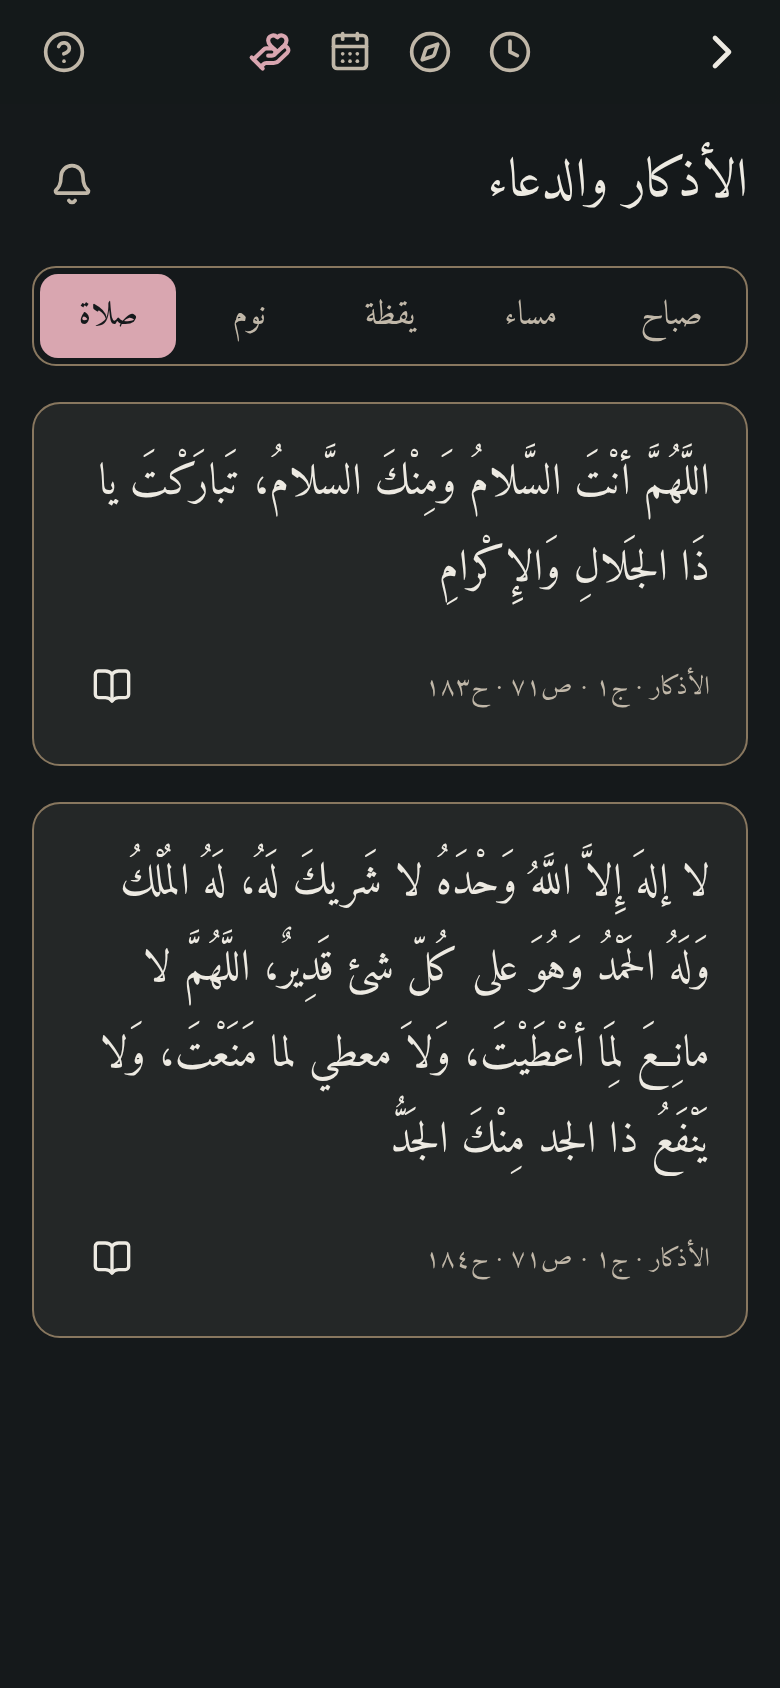
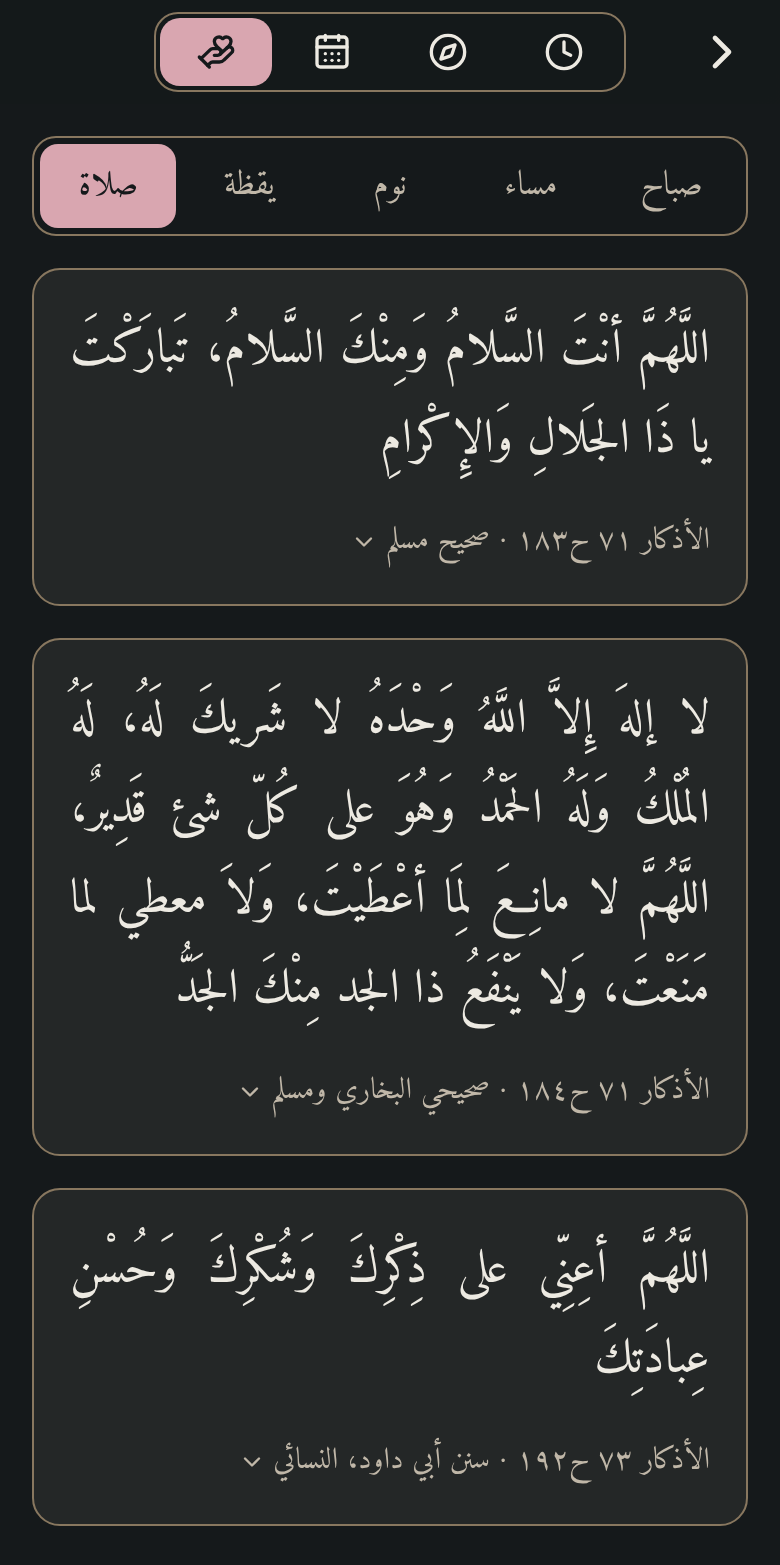
feat(adhkar): sketch every item, the Quran page and inline references
Claude-Session: https://claude.ai/code/session_01JECtmp3ZYUzPhKSMyqo8kc

diff --git a/mobile/sketches/adhkar/index.tsx b/mobile/sketches/adhkar/index.tsx
@@ -1,79 +1,103 @@
-import { useState } from 'react';
+import { useMemo, useState } from 'react';
 import { ScrollView, View } from 'react-native';
-import { Bell, BookOpen, CalendarDays, Check, Clock, Compass, HandHeart, RotateCcw } from 'lucide-react-native';
+import { Bell, CalendarDays, Check, Clock, Compass, HandHeart, RotateCcw } from 'lucide-react-native';
 import Card from '@/ui/Card';
 import Tabs from '@/ui/Tabs';
 import TopBar from '@/ui/TopBar';
-import Reference from '@/ui/Reference';
-import Sheet from '@/ui/Sheet';
+import Reference, { type Quote } from '@/ui/Reference';
 import Button from '@/ui/Button';
 import IconButton from '@/ui/IconButton';
 import { Text } from '@/ui/Text';
+import MushafPageView from '@/components/MushafPageView';
 import { dark } from '@/lib/theme';
-import { adhkarFor, dhikrById, type AdhkarOccasion, type Dhikr } from '@shared/adhkar';
-import { SOURCES } from '@shared/sources';
+import { pageData, surahBefore } from '@/lib/mushaf';
+import { pageModel } from '@shared/quran/recitePage';
+import { pageTop } from '@shared/quran/ayahSlice';
+import { SURAH_TITLES } from '@shared/quran/surahNames';
+import { adhkarFor, type AdhkarCitation, type AdhkarOccasion, type Dhikr } from '@shared/adhkar';
 
 const occasions = [
   { key: 'morning', label: 'صباح' }, { key: 'evening', label: 'مساء' },
-  { key: 'waking', label: 'يقظة' }, { key: 'sleep', label: 'نوم' }, { key: 'after-prayer', label: 'صلاة' },
+  { key: 'sleep', label: 'نوم' }, { key: 'waking', label: 'يقظة' }, { key: 'after-prayer', label: 'صلاة' },
 ] as const;
 const noop = () => {};
 const digits = (value: number) => String(value).replace(/\d/g, digit => '٠١٢٣٤٥٦٧٨٩'[Number(digit)]);
-const cite = (item: Dhikr) => `الأذكار · ج١ · ص${digits(item.citation.page)} · ح${digits(item.citation.report!)}`;
+const SHORT: Record<AdhkarCitation['source'], string> = { 'adhkar-nawawi': 'الأذكار', 'nataij-afkar': 'نتائج الأفكار' };
+const book = (citation: AdhkarCitation) => SHORT[citation.source];
+const cite = (citation: AdhkarCitation) =>
+  `${book(citation)} ${citation.volume > 1 ? `${digits(citation.volume)}/` : ''}${digits(citation.page)}${citation.report ? ` ح${digits(citation.report)}` : ''}`;
+
+/** Each card's reference: al-Nawawi's words on when, how often and why, then every named grade with its own book and page. */
+function quotes(item: Dhikr): Quote[] {
+  const at = { cite: cite(item.citation), url: item.citation.url };
+  return [
+    { text: item.occasionQuote, ...at },
+    ...(item.repeat ? [{ text: item.repeat.quote, ...at }] : []),
+    ...(item.instructionQuote ? [{ text: item.instructionQuote, ...at }] : []),
+    ...item.grades.map(grade => ({
+      text: grade.quote,
+      cite: grade.reportedBy ? `${grade.scholar}، نقله ${grade.reportedBy}، ${cite(grade.citation)}` : `${grade.scholar}، ${cite(grade.citation)}`,
+      url: grade.citation.url,
+    })),
+  ];
+}
+
+/** Al-Ikhlas and al-Mu'awwidhatayn fill page 604, so the card shows that Madina page whole, through the reader's own page view. */
+function QuranPage({ page }: { page: number }) {
+  const [width, setWidth] = useState(0);
+  const parts = useMemo(() => {
+    const data = pageData(page);
+    return { data, model: pageModel(data, surahBefore(page)), slice: pageTop(data.items, 15) };
+  }, [page]);
+  return (
+    <View onLayout={event => setWidth(event.nativeEvent.layout.width)} pointerEvents="none">
+      {width > 0 && <MushafPageView page={page} data={parts.data} model={parts.model} palette={dark} width={width} height={width * 1.5}
+        top={surahBefore(page)} names={SURAH_TITLES} forgot={{}} saved={new Set()} onTouch={noop} slice={parts.slice} />}
+    </View>
+  );
+}
+
+function Counter({ count }: { count: number }) {
+  return (
+    <View style={{ flexDirection: 'row', gap: 12, alignItems: 'center' }}>
+      <Button Icon={Check} variant="primary" accessibilityLabel="عُدَّ مرة" onPress={noop} />
+      <Text style={{ color: dark.ink, fontSize: 20, writingDirection: 'ltr' }}>٠ / {digits(count)}</Text>
+      <Button Icon={RotateCcw} variant="plain" accessibilityLabel="من جديد" onPress={noop} />
+    </View>
+  );
+}
 
 export default function AdhkarSketch() {
   const [occasion, setOccasion] = useState<AdhkarOccasion>('morning');
-  const [source, setSource] = useState<Dhikr>();
-  const sample = occasion === 'morning'
-    ? [dhikrById('morning-evening-name')!, dhikrById('morning-by-you')!]
-    : adhkarFor(occasion).filter(item => item.content.kind === 'text').slice(0, 2);
+  const items = adhkarFor(occasion);
   return (
     <View style={{ flex: 1, backgroundColor: dark.paper, direction: 'rtl' }}>
-      <TopBar back={noop} center help={() => setSource(sample[0])}>
-        <IconButton Icon={Clock} label="مواقيت الصلاة" onPress={noop} />
-        <IconButton Icon={Compass} label="القبلة" onPress={noop} />
-        <IconButton Icon={CalendarDays} label="التقويم الهجري" onPress={noop} />
-        <IconButton Icon={HandHeart} label="الأذكار والدعاء" onPress={noop} on />
-      </TopBar>
-      <ScrollView contentContainerStyle={{ padding: 16, gap: 18 }}>
-        <View style={{ flexDirection: 'row', alignItems: 'center', justifyContent: 'space-between' }}>
-          <Text accessibilityRole="header" style={{ color: dark.ink, fontSize: 24 }}>الأذكار والدعاء</Text>
-          <IconButton Icon={Bell} label="تذكير الأذكار" onPress={noop} />
-        </View>
-        <Tabs label="وقت الذكر" options={occasions} value={occasion} onChange={setOccasion} palette={dark} fill />
-        {sample.map(item => (
-          <Card key={item.id} palette={dark} pad={18} gap={16}>
-            {item.content.kind === 'text' && <Text style={{ color: dark.ink, fontSize: 20, lineHeight: 38, textAlign: 'right' }}>{item.content.text}</Text>}
-            {item.virtueQuote && <Text style={{ color: dark.muted, fontSize: 14, lineHeight: 25, textAlign: 'right' }}>{item.virtueQuote}</Text>}
-            {item.repeat && <View style={{ flexDirection: 'row', gap: 12, alignItems: 'center' }}>
-              <Button Icon={Check} variant="primary" accessibilityLabel="عد تكرار الذكر" onPress={noop} />
-              <Text accessibilityLabel="صفر من ثلاثة تكرارات" style={{ color: dark.ink, fontSize: 20, direction: 'ltr', writingDirection: 'ltr' }}>٠ / {digits(item.repeat.count)}</Text>
-              <Button Icon={RotateCcw} variant="plain" accessibilityLabel="إعادة العداد" onPress={noop} />
-            </View>}
-            <View style={{ flexDirection: 'row', alignItems: 'center', justifyContent: 'space-between' }}>
-              <Text style={{ color: dark.muted, fontSize: 12 }}>{cite(item)}</Text>
-              <Button Icon={BookOpen} variant="plain" accessibilityLabel={`مصدر ${item.id}`} onPress={() => setSource(item)} />
+      {/* Round 2 adds a fourth icon to the real UtilityPicker; this row only shows where it sits. */}
+      <TopBar back={noop} center>
+        <View style={{ direction: 'ltr', flexDirection: 'row-reverse', borderWidth: 1, borderColor: dark.rule, borderRadius: 12, padding: 2, gap: 2 }}>
+          {[Clock, Compass, CalendarDays, HandHeart].map((Icon, i) => (
+            <View key={i} style={{ paddingHorizontal: 18, paddingVertical: 7, borderRadius: 10, backgroundColor: i === 3 ? dark.accent : 'transparent' }}>
+              <Icon size={20} color={i === 3 ? dark.onAccent : dark.ink} />
             </View>
+          ))}
+        </View>
+      </TopBar>
+      <ScrollView contentContainerStyle={{ padding: 16, gap: 16 }}>
+        <View style={{ flexDirection: 'row', alignItems: 'center', gap: 8 }}>
+          <View style={{ flex: 1 }}><Tabs label="وقت الذكر" options={occasions} value={occasion} onChange={setOccasion} palette={dark} fill /></View>
+          {(occasion === 'morning' || occasion === 'evening') && <IconButton Icon={Bell} label="تذكير بعد الفجر والعصر" onPress={noop} />}
+        </View>
+        {items.map(item => (
+          <Card key={item.id} palette={dark} pad={18} gap={14}>
+            {item.content.kind === 'text'
+              ? <Text style={{ color: dark.ink, fontSize: 21, lineHeight: 40, textAlign: 'justify' }}>{item.content.text}</Text>
+              : <QuranPage page={604} />}
+            {item.virtueQuote && <Text style={{ color: dark.muted, fontSize: 15, lineHeight: 26, textAlign: 'right' }}>«{item.virtueQuote}»</Text>}
+            {item.repeat && <Counter count={item.repeat.count} />}
+            <Reference title={`${cite(item.citation)} · ${item.collections.join('، ')}`} palette={dark} quotes={quotes(item)} />
           </Card>
         ))}
       </ScrollView>
-      <Sheet open={!!source} onClose={() => setSource(undefined)} palette={dark}>
-        {source && <ScrollView contentContainerStyle={{ padding: 20, gap: 18 }}>
-          <Text accessibilityRole="header" style={{ color: dark.ink, fontSize: 20 }}>المصدر والحكم</Text>
-          <Text style={{ color: dark.muted, fontSize: 13 }}>{source.collections.join(" · ")}</Text>
-          <Text style={{ color: dark.muted, fontSize: 13, lineHeight: 24 }}>{SOURCES.find(book => book.id === source.citation.source)?.edition}</Text>
-          <Reference title={cite(source)} palette={dark} quotes={[
-            { text: source.occasionQuote, cite: cite(source), url: source.citation.url },
-            ...(source.repeat ? [{ text: source.repeat.quote, cite: cite(source), url: source.citation.url }] : []),
-            ...(source.virtueQuote ? [{ text: source.virtueQuote, cite: cite(source), url: source.citation.url }] : []),
-          ]} />
-          {source.grades.map(grade => <View key={`${grade.scholar}-${grade.quote}`} style={{ gap: 6 }}>
-            <Text style={{ color: dark.ink, fontSize: 15 }}>{grade.scholar}{grade.reportedBy ? `، نقله ${grade.reportedBy}` : ''}</Text>
-            <Reference title={`${SOURCES.find(book => book.id === grade.citation.source)?.title.ar} · ج${digits(grade.citation.volume)} · ص${digits(grade.citation.page)}`}
-              palette={dark} quotes={[{ text: grade.quote, cite: grade.scholar, url: grade.citation.url }]} />
-          </View>)}
-        </ScrollView>}
-      </Sheet>
     </View>
   );
 }

diff --git a/mobile/sketches/adhkar/_layout.tsx b/mobile/sketches/adhkar/_layout.tsx
@@ -3,10 +3,11 @@ import { Slot } from 'expo-router';
 import { GestureHandlerRootView } from 'react-native-gesture-handler';
 import { SafeAreaProvider } from 'react-native-safe-area-context';
 import { useFonts } from 'expo-font';
-import { dark, UI_FONT, UI_FONT_BOLD } from '@/lib/theme';
+import { dark, QURAN_FONT, UI_FONT, UI_FONT_BOLD } from '@/lib/theme';
 
 export default function SketchLayout() {
   const [ready] = useFonts({
+    [QURAN_FONT]: require('../../assets/fonts/UthmanicHafs1Ver18.ttf'),
     [UI_FONT]: require('../../assets/fonts/Amiri-Regular.ttf'),
     [UI_FONT_BOLD]: require('../../assets/fonts/Amiri-Bold.ttf'),
   });

diff --git a/docs/plans/adhkar-content-and-sketch.md b/docs/plans/adhkar-content-and-sketch.md
@@ -75,20 +75,33 @@ through the agreed Quran module, preserving all mushaf signs.
 
 ## Dark-mode sketch
 
-The sketch imports the real app Card, Tabs, TopBar, Reference, Sheet, Button,
-IconButton and Amiri Text. It uses the dark palette, one card surface and
-right-aligned text. Cards are plain containers, with their own accessible
-buttons. Counts and reset are static sketch controls, with no stored state,
-haptics or completion behavior. Occasion tabs and source disclosure work only
-so the proposed states can be rendered. The four icons illustrate placement;
-the existing Utilities picker and its sliding highlight will be extended in
-round 2, rather than replaced by this sketch's static icon row.
+The sketch imports the real app Card, Tabs, TopBar, Reference, Button, IconButton,
+Amiri Text and the reader's MushafPageView. It uses the dark palette, one card
+colour and right-aligned text.
 
-![Morning selection with sourced counter](../screenshots/adhkar/morning-dark.png)
+- Each occasion tab lists all of its items, not a sample.
+- The Quran item shows Madina page 604 whole, since al-Ikhlas and
+  al-Mu'awwidhatayn fill that page. It goes through the reader's own page view
+  with the Hafs font, so nothing stores Quran text.
+- A virtue shows under the text only where the hadith states it, in quotation
+  marks. The counter shows only where the hadith states a count.
+- Each card ends with its own collapsed reference (book, page, report, the
+  collections al-Nawawi names). Opened, it quotes al-Nawawi's words on when and
+  how often, then every grade in the scholar's words with its own book and page.
+  There is no source sheet: the owner's rule is one collapsible reference per
+  section.
+- The bell for the fajr and asr reminders sits beside the tabs on the morning and
+  evening tabs only.
+- The icon row at the top only shows where the fourth icon sits. Round 2 adds it
+  to the real UtilityPicker.
 
-![Reference and named grading](../screenshots/adhkar/reference-dark.png)
+![Morning, all items](../screenshots/adhkar/morning-dark.png)
 
-![After-prayer items without counters](../screenshots/adhkar/prayer-dark.png)
+![A card's reference opened](../screenshots/adhkar/reference-dark.png)
+
+![Sleep](../screenshots/adhkar/sleep-dark.png)
+
+![After prayer: no counters](../screenshots/adhkar/prayer-dark.png)
 
 The [sketch source](../../mobile/sketches/adhkar/index.tsx) is outside `src/app/`.
 Render it independently without changing production routes:
@@ -98,11 +111,10 @@ node mobile/sketches/adhkar/render.mjs
 node e2e/serve.mjs /tmp/namaq-adhkar-sketch 8093
 ```
 
-Open port8093 in a browser set to dark mode. The renderer temporarily selects
+Open port 8093 in a browser set to dark mode. The renderer temporarily selects
 this sketch as the Expo Router root and removes its temporary config afterward.
 It refuses to overwrite an existing dynamic config. Screenshots are the Expo web
-render at 390 by 844, not iOS or Android device verification. The sketch omits
-Quran rendering rather than create a temporary competing Quran text path.
+render at 390 wide, not iOS or Android device verification.
 
 ## Limits and handoff
 
